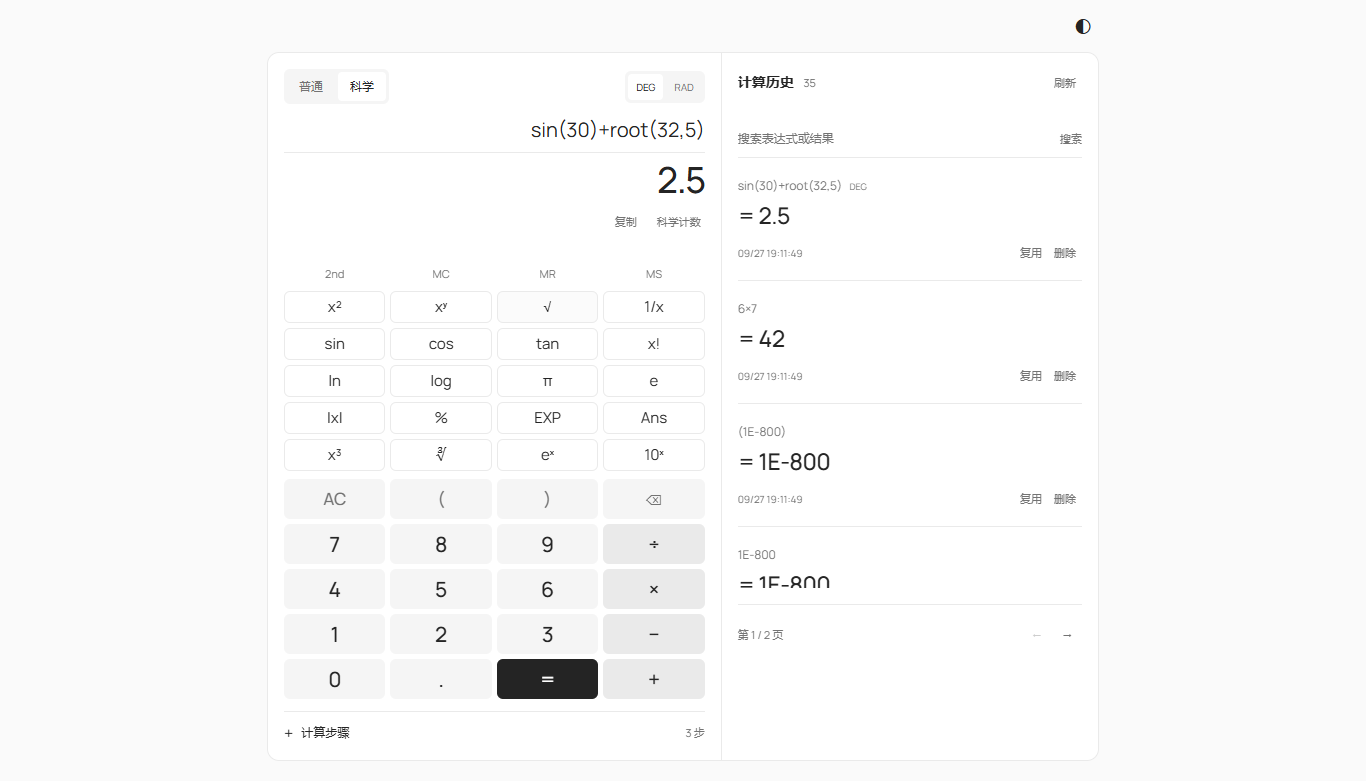
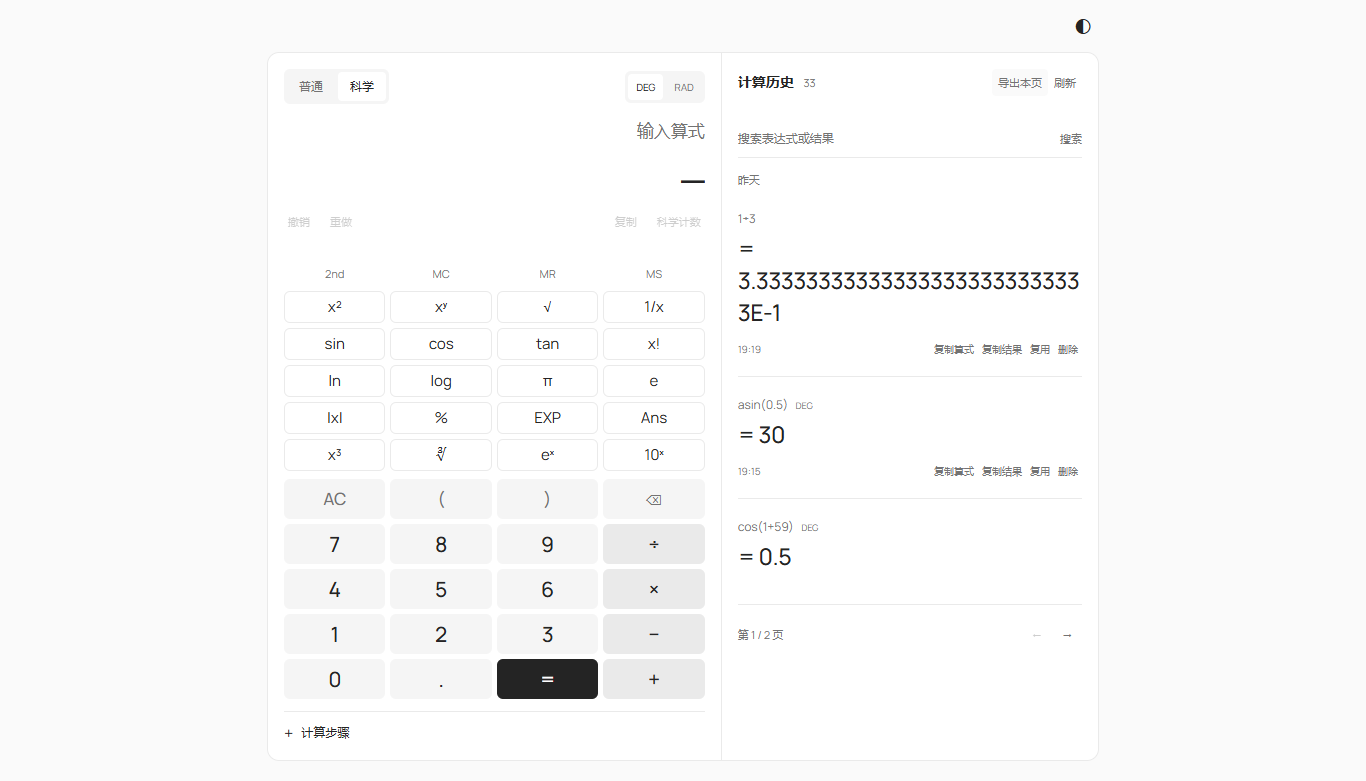
Improve history grouping copying and CSV export

diff --git a/src/main.js b/src/main.js
@@ -2,6 +2,7 @@ import '@fontsource-variable/manrope';
 import '@fontsource-variable/jetbrains-mono';
 import './style.css';
 import { request } from './api.js';
+import { localDateKey, dateHeading, historyCsv } from './history-utils.js';
 import { ExpressionEditor } from './expression-editor.js';
 import { ResultView, reusable, scientific } from './result-view.js';
 
@@ -20,6 +21,7 @@ const state = {
   angle: 'deg',
 };
 const pageSize = 20;
+let historyPage = [];
 const resultView = new ResultView(result, byId('copy-result'), byId('result-format'));
 const editor = new ExpressionEditor(input, invalidateResult, setStatus);
 let lastSubmitted = null;
@@ -346,6 +348,7 @@ byId('calculation-form').addEventListener('submit', async (event) => {
     state.page = 1;
     state.query = '';
     byId('search').value = '';
+    byId('clear-search').hidden = true;
     await loadHistory();
   } catch (error) {
     editor.phase = 'error';
@@ -414,11 +417,8 @@ function renderRecord(record) {
   const time = document.createElement('time');
   time.dateTime = record.created_at;
   time.textContent = new Intl.DateTimeFormat('zh-CN', {
-    month: '2-digit',
-    day: '2-digit',
     hour: '2-digit',
     minute: '2-digit',
-    second: '2-digit',
     hour12: false,
   }).format(new Date(record.created_at));
   const actions = document.createElement('div');
@@ -444,6 +444,24 @@ function renderRecord(record) {
     byId('delete-expression').textContent = `${record.expression} = ${record.result}`;
     byId('delete-dialog').showModal();
   });
+  for (const [label, value] of [
+    ['复制算式', record.expression],
+    ['复制结果', record.result],
+  ]) {
+    const copy = document.createElement('button');
+    copy.type = 'button';
+    copy.className = 'text-button';
+    copy.textContent = label;
+    copy.addEventListener('click', async () => {
+      try {
+        await navigator.clipboard.writeText(value);
+        byId('history-status').textContent = '已复制';
+      } catch {
+        byId('history-status').textContent = '复制失败，请手动选择文字复制。';
+      }
+    });
+    actions.append(copy);
+  }
   actions.append(reuse, remove);
   bottom.append(time, actions);
   article.append(expression, answer, bottom);
@@ -453,6 +471,7 @@ function renderRecord(record) {
 async function loadHistory() {
   const version = ++state.historyVersion;
   byId('history-status').textContent = '正在读取历史…';
+  byId('export-history').disabled = true;
   byId('history-list').setAttribute('aria-busy', 'true');
   try {
     const params = new URLSearchParams({ q: state.query, page: state.page, page_size: pageSize });
@@ -465,7 +484,22 @@ async function loadHistory() {
     }
     state.total = data.total;
     byId('history-count').textContent = data.total;
-    byId('history-list').replaceChildren(...data.items.map(renderRecord));
+    historyPage = data.items;
+    const rows = [];
+    let previousDate = null;
+    for (const record of data.items) {
+      const key = localDateKey(record.created_at);
+      if (key !== previousDate) {
+        const heading = document.createElement('h3');
+        heading.className = 'history-date';
+        heading.textContent = dateHeading(record.created_at);
+        rows.push(heading);
+        previousDate = key;
+      }
+      rows.push(renderRecord(record));
+    }
+    byId('history-list').replaceChildren(...rows);
+    byId('export-history').disabled = !data.items.length;
     if (!data.items.length) {
       const empty = document.createElement('div');
       empty.className = 'empty-state';
@@ -495,6 +529,31 @@ async function loadHistory() {
   }
 }
 
+byId('export-history').addEventListener('click', () => {
+  if (!historyPage.length || byId('export-history').disabled) return;
+  const url = URL.createObjectURL(
+    new Blob([historyCsv(historyPage)], { type: 'text/csv;charset=utf-8' }),
+  );
+  const anchor = document.createElement('a');
+  anchor.href = url;
+  anchor.download = `计算记录-${localDateKey(new Date())}-第${state.page}页.csv`;
+  document.body.append(anchor);
+  anchor.click();
+  anchor.remove();
+  setTimeout(() => URL.revokeObjectURL(url), 1000);
+});
+byId('search').addEventListener('input', () => {
+  byId('clear-search').hidden = !byId('search').value;
+});
+function clearSearch() {
+  byId('search').value = '';
+  byId('clear-search').hidden = true;
+  state.query = '';
+  state.page = 1;
+  void loadHistory();
+  byId('search').focus();
+}
+byId('clear-search').addEventListener('click', clearSearch);
 byId('search-form').addEventListener('submit', (event) => {
   event.preventDefault();
   state.query = byId('search').value.trim();
@@ -503,9 +562,7 @@ byId('search-form').addEventListener('submit', (event) => {
 });
 byId('search').addEventListener('search', () => {
   if (!byId('search').value) {
-    state.query = '';
-    state.page = 1;
-    void loadHistory();
+    clearSearch();
   }
 });
 byId('refresh').addEventListener('click', () => {

diff --git a/tests/history.test.js b/tests/history.test.js
@@ -1,0 +1,29 @@
+import test from 'node:test';
+import assert from 'node:assert/strict';
+import { historyCsv, dateHeading } from '../src/history-utils.js';
+test('CSV preserves quoted expressions, long decimals and formula safety', () => {
+  const csv = historyCsv([
+    {
+      id: 1,
+      expression: '-1+root(8,3)',
+      result: '0.1234567890123456789012345678',
+      angle_mode: 'rad',
+      created_at: '2026-09-28T12:00:00Z',
+    },
+  ]);
+  assert.ok(csv.startsWith('\uFEFF'));
+  assert.ok(csv.includes('"\'-1+root(8,3)"'));
+  assert.ok(csv.includes('"\'0.1234567890123456789012345678"'));
+  assert.ok(csv.includes('"RAD"'));
+  assert.ok(
+    historyCsv([{ id: 2, expression: '="x"', result: '1', created_at: 'x' }]).includes(
+      '"\'=""x"""',
+    ),
+  );
+});
+test('date headings cross month boundaries using local calendar dates', () => {
+  const now = new Date(2026, 9, 1, 10);
+  assert.equal(dateHeading(new Date(2026, 9, 1, 0), now), '今天');
+  assert.equal(dateHeading(new Date(2026, 8, 30, 23), now), '昨天');
+  assert.equal(dateHeading(new Date(2026, 8, 29, 23), now), '2026-09-29');
+});

diff --git a/src/history-utils.js b/src/history-utils.js
@@ -1,0 +1,27 @@
+export function localDateKey(timestamp) {
+  const date = new Date(timestamp);
+  return `${date.getFullYear()}-${String(date.getMonth() + 1).padStart(2, '0')}-${String(date.getDate()).padStart(2, '0')}`;
+}
+export function dateHeading(timestamp, now = new Date()) {
+  const key = localDateKey(timestamp);
+  if (key === localDateKey(now)) return '今天';
+  const yesterday = new Date(now);
+  yesterday.setDate(now.getDate() - 1);
+  if (key === localDateKey(yesterday)) return '昨天';
+  return key;
+}
+// Text prefixes stop spreadsheets evaluating expressions or rounding long results.
+export function historyCsv(records) {
+  const cell = (value) => '"' + String(value).replaceAll('"', '""') + '"';
+  const rows = [
+    ['ID', '表达式（文本）', '结果（文本）', '角度单位', '时间（UTC）'],
+    ...records.map((record) => [
+      record.id,
+      "'" + record.expression,
+      "'" + record.result,
+      (record.angle_mode || 'deg').toUpperCase(),
+      record.created_at,
+    ]),
+  ];
+  return '\uFEFF' + rows.map((row) => row.map(cell).join(',')).join('\r\n') + '\r\n';
+}

diff --git a/index.html b/index.html
@@ -110,7 +110,11 @@
               计算历史
               <span id="history-count" class="count">0</span>
             </h2>
-            <button type="button" id="refresh" class="text-button">刷新</button>
+            <div>
+              <button type="button" id="export-history" class="text-button" disabled>
+                导出本页</button
+              ><button type="button" id="refresh" class="text-button">刷新</button>
+            </div>
           </div>
           <form id="search-form" class="search">
             <input
@@ -119,7 +123,8 @@
               placeholder="搜索表达式或结果"
               aria-label="搜索表达式或结果"
               maxlength="500"
-            /><button type="submit">搜索</button>
+            /><button type="button" id="clear-search" aria-label="清除搜索" hidden>清除</button
+            ><button type="submit">搜索</button>
           </form>
           <div id="history-status" class="history-status" role="status"></div>
           <div id="history-list" class="history-list"></div>

diff --git a/src/style.css b/src/style.css
@@ -767,3 +767,34 @@ dialog p {
 .result-actions #redo-edit {
   margin-right: auto;
 }
+.history-date {
+  font-size: 11px;
+  font-weight: 500;
+  color: var(--muted);
+  margin: 0;
+  padding: 14px 0 4px;
+}
+.record-bottom > div {
+  display: flex;
+  flex-wrap: wrap;
+  justify-content: flex-end;
+}
+.record-bottom {
+  align-items: center;
+}
+.record-bottom .text-button {
+  font-size: 10px;
+  padding: 6px 4px;
+}
+.record-bottom time {
+  flex-shrink: 0;
+}
+@media (max-width: 680px) {
+  .record-bottom .text-button,
+  #clear-search,
+  #export-history,
+  #refresh,
+  .pagination button {
+    min-height: 44px;
+  }
+}

diff --git a/README.md b/README.md
@@ -92,3 +92,9 @@ Ans 插入上次成功结果；MS 存储当前结果，MR 读取，MC 清除。A
 算式错误会选中相关字符；缺少内容时将光标定位到插入位置。修改或撤销后清除旧错误标记，再次按等号由后端验证。
 
 撤销／重做按钮支持最近 100 步输入修改，包括清空、函数包裹、粘贴和选区替换；快捷键为 Ctrl+Z、Ctrl+Y 或 Ctrl+Shift+Z（macOS 可用 Command）。新修改会清除重做分支，刷新页面会清空编辑栈。撤销仅恢复算式、光标和自动括号，不撤销数据库记录或存储数值，不自动重新计算。
+
+## 历史记录操作
+
+历史按本地日期分组，每条记录支持复制原始算式或完整结果。清除搜索按钮恢复全部记录并回到第一页。
+
+“导出本页”下载当前已加载页（最多 20 条）的 CSV，搜索和分页结果均可导出；空结果、加载中或读取失败时不可导出。包含 ID、表达式、结果、角度单位和 UTC 时间。CSV 为 UTF-8 BOM 编码，表达式及结果带文本前缀单引号，以防表格软件执行公式或舍入长数字；需要原始无前缀文本时使用复制按钮。导出不改变数据库。
